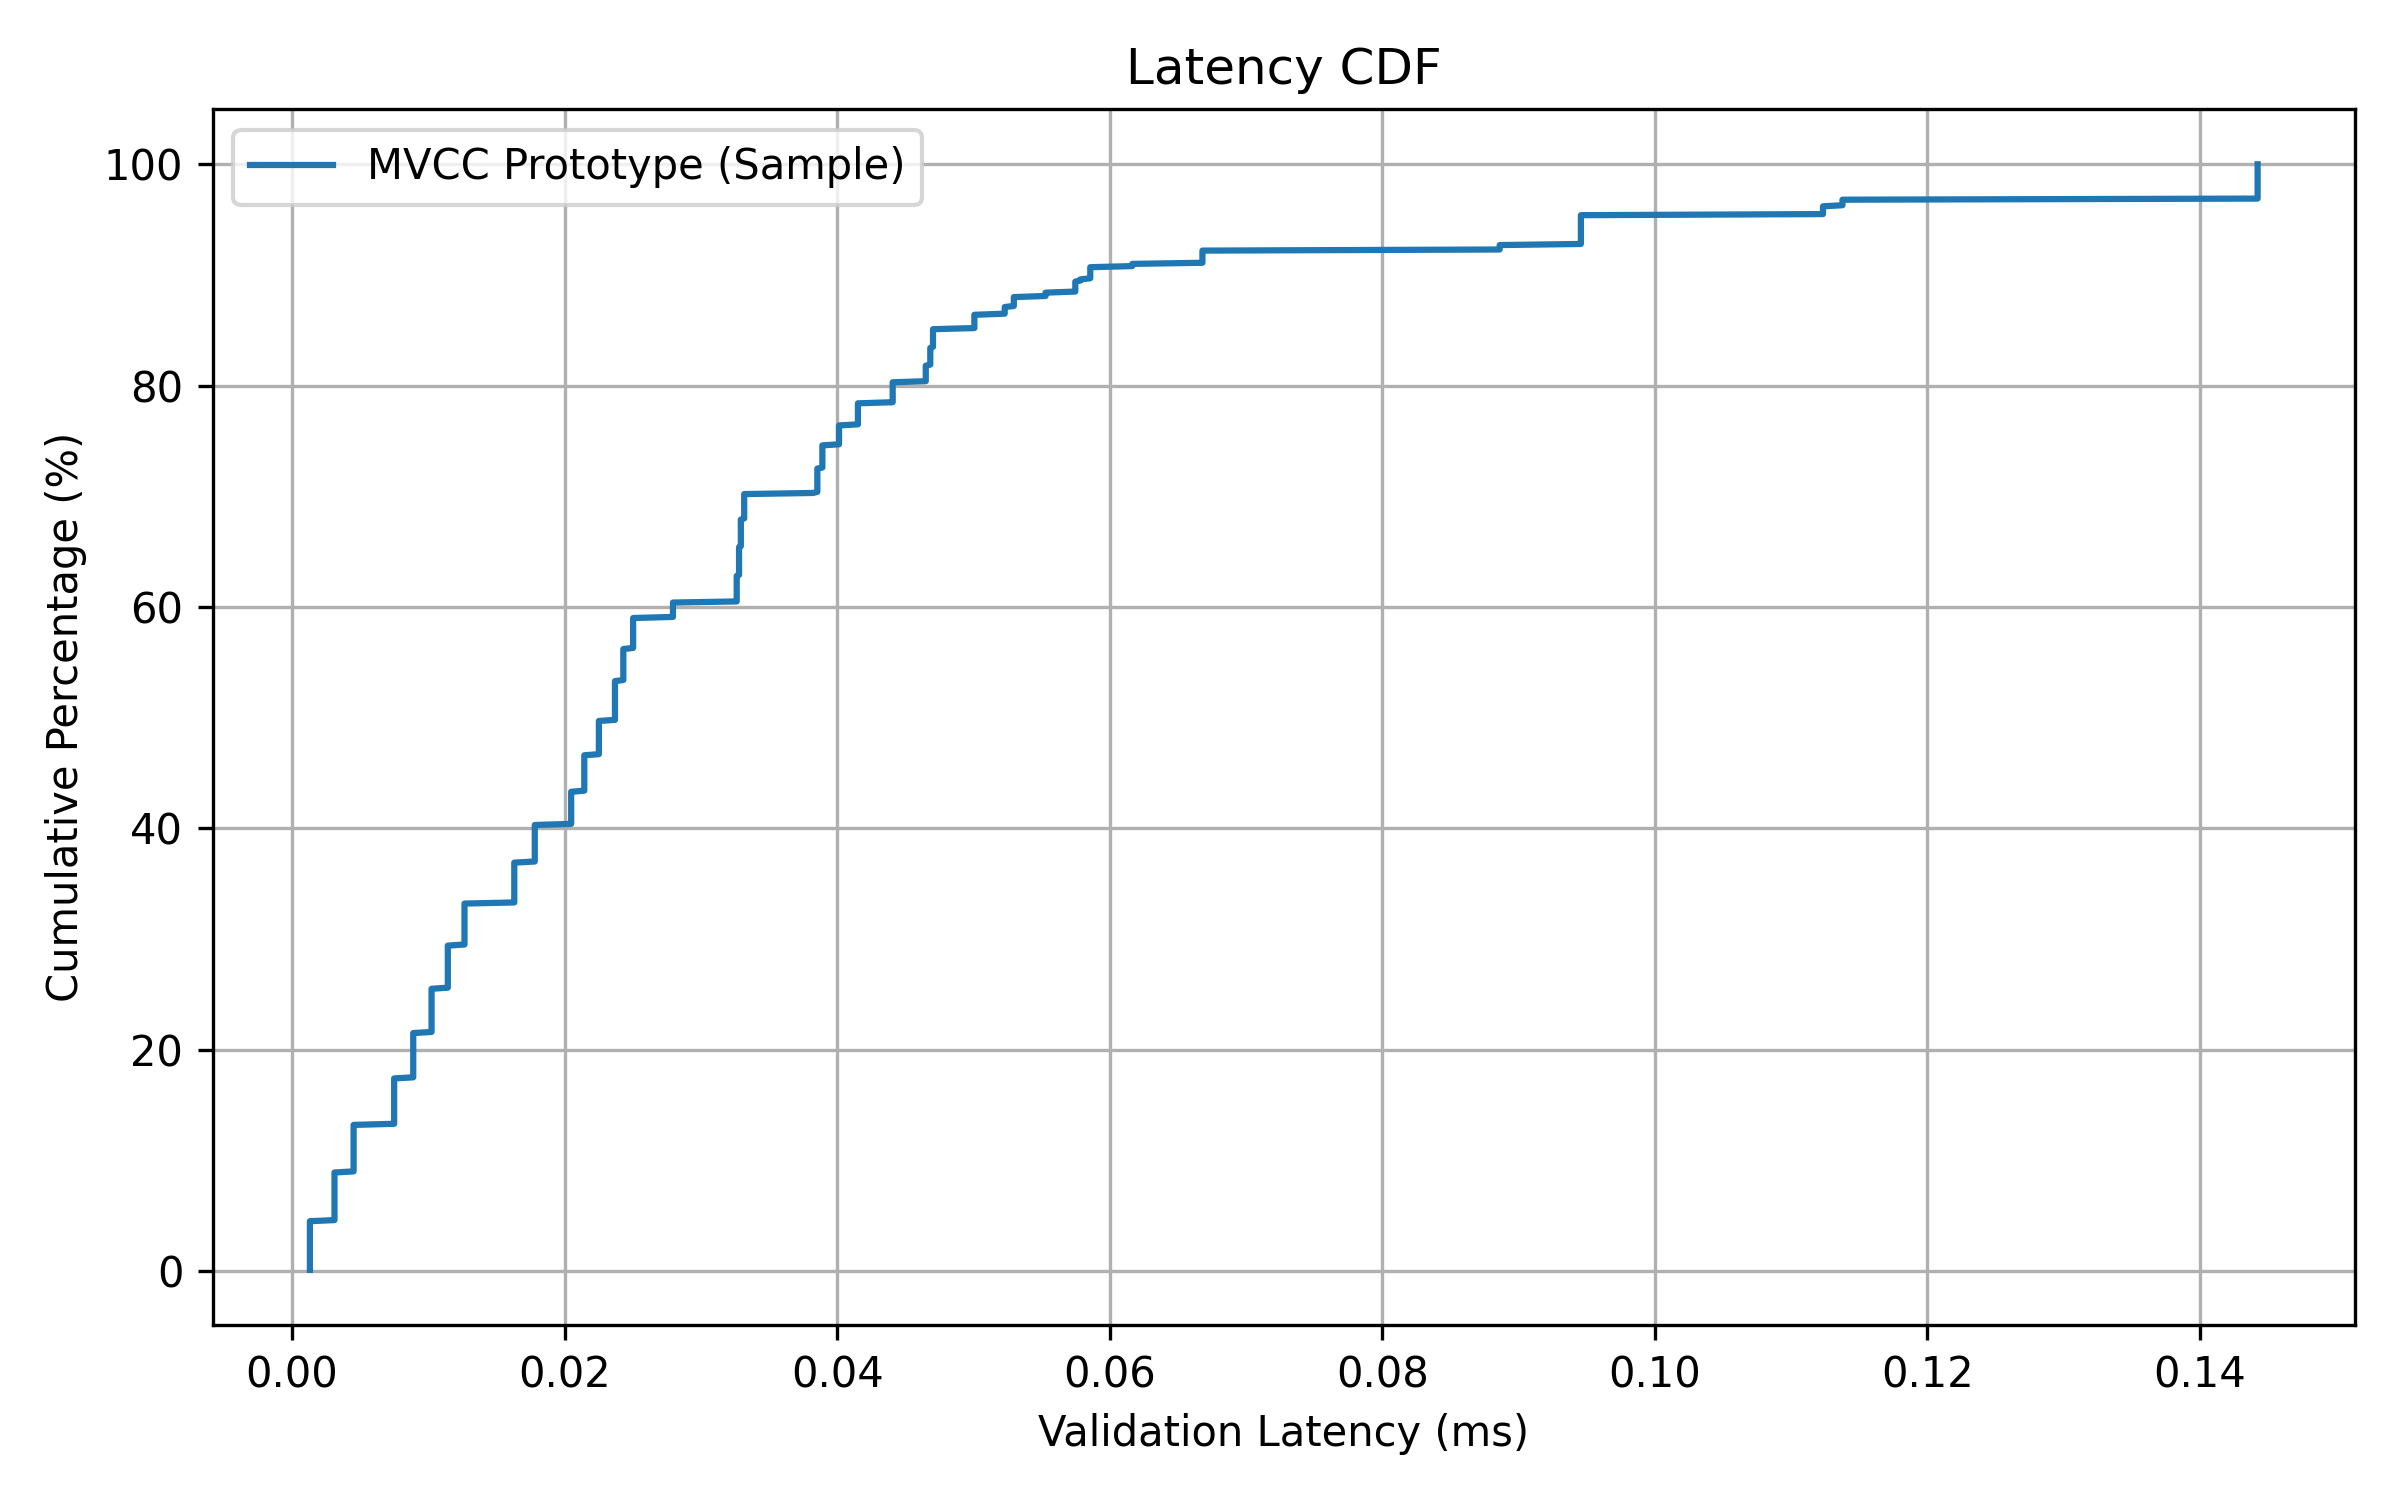
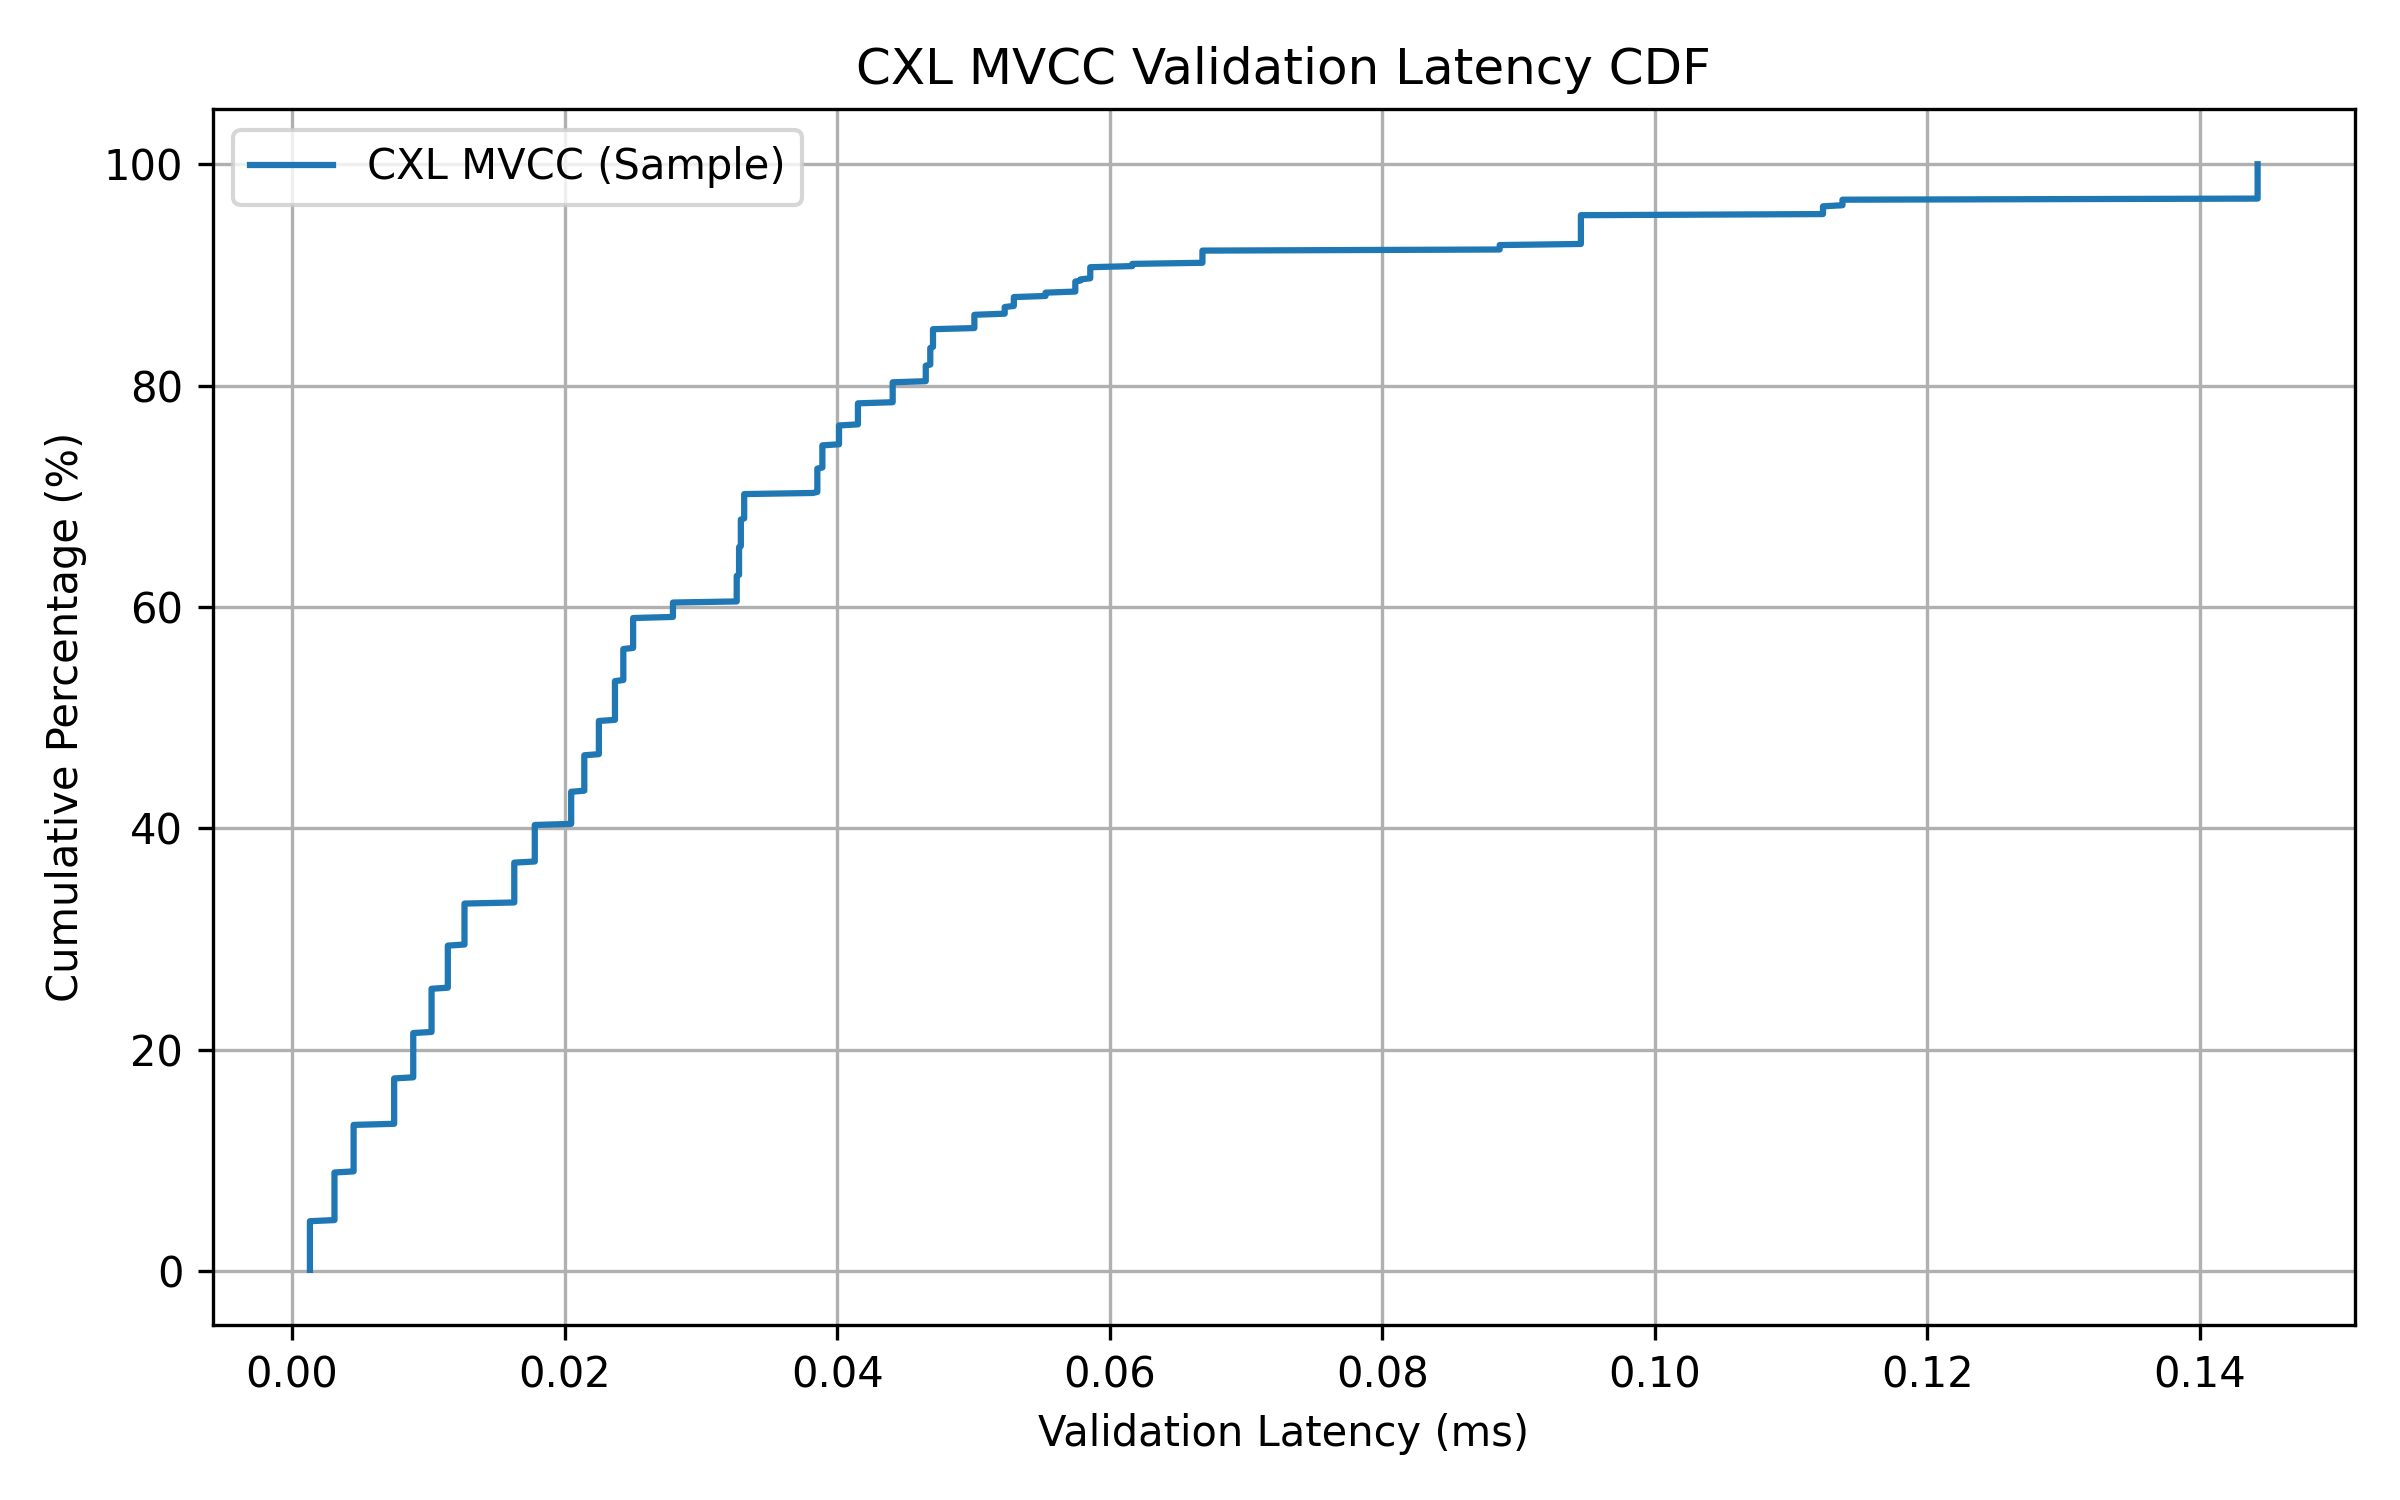
Finalize milestone 2 benchmark outputs

Changed region(s): [[0.3438, 0.0307, 0.7188, 0.0613], [0.1562, 0.092, 0.375, 0.1533]]

diff --git a/plots/plot_results.py b/plots/plot_results.py
@@ -14,6 +14,8 @@ cxl_transactions = []
 cxl_p50 = []
 cxl_p90 = []
 cxl_p99 = []
+cxl_throughput = []
+
 
 with open(csv_file, "r" , newline="") as file:
     reader = csv.DictReader(file)
@@ -36,17 +38,22 @@ with open(cxl_file, "r", newline="") as file:
 
     for row in reader:
         cxl_transactions.append(float(row['transaction']))
+        cxl_throughput.append(float(row['throughput']))
         cxl_p50.append(float(row['cxl_p50_latency']) * 1000)
         cxl_p90.append(float(row['cxl_p90_latency']) * 1000)
         cxl_p99.append(float(row['cxl_p99_latency']) * 1000)
 
-# Plot 1: Throughput
+# Plot 1: Baseline vs CXL Throughput
 plt.figure()
 
-plt.plot(transactions, throughput, marker='o')
+plt.plot(transactions, throughput, marker='o', label ='Baseline')
+plt.plot(cxl_transactions, cxl_throughput, marker='s', linestyle='--', label='CXL')
+
+plt.plot
 plt.xlabel("Number of Transactions")
 plt.ylabel("Throughput (transactions/second)")
-plt.title("Throughput vs Number of Transactions")
+plt.title("Baseline vs CXL Throughput")
+plt.legend()
 plt.grid(True)
 plt.tight_layout ()
 plt.savefig("plots/throughput_vs_transactions.png")

diff --git a/plots/plot_resource_utilization.py b/plots/plot_resource_utilization.py
@@ -1,0 +1,38 @@
+import csv
+import os
+import matplotlib.pyplot as plt
+
+# Read resource utilization data
+resource_file = "results/processed/resource_trace.csv"
+
+cpu_percent = []
+memory_percent = []
+
+with open(resource_file, "r", newline="") as file:
+    reader = csv.DictReader(file)
+
+    for row in reader:
+        cpu_percent.append(float(row["cpu_percent"]))
+        memory_percent.append(float(row["memory_percent"]))
+
+# Create plots directory
+os.makedirs("plots", exist_ok=True)
+
+# Plot Resource Utilization
+plt.figure(figsize=(8, 5))
+
+plt.plot(cpu_percent, marker='o', label="CPU Utilization")
+plt.plot(memory_percent, marker='o', label="Memory Utilization")
+
+plt.xlabel("Sample")
+plt.ylabel("Utilization (%)")
+plt.title("Resource Utilization Over Time")
+plt.legend()
+plt.grid(True)
+plt.tight_layout()
+
+plt.savefig("plots/resource_utilization.png", dpi=300)
+plt.close()
+
+print("Resource utilization plot saved.")
+print("Output: plots/resource_utilization.png")

diff --git a/plots/plot_latency_cdf.py b/plots/plot_latency_cdf.py
@@ -25,10 +25,10 @@ cdf = [(i + 1) / len(latencies) * 100
 os.makedirs("plots", exist_ok=True)
 
 plt.figure(figsize=(8, 5))
-plt.plot(latencies, cdf, label="MVCC Prototype (Sample)")
+plt.plot(latencies, cdf, label="CXL MVCC (Sample)")
 plt.xlabel("Validation Latency (ms)")
 plt.ylabel("Cumulative Percentage (%)")
-plt.title("Latency CDF")
+plt.title("CXL MVCC Validation Latency CDF")
 plt.grid(True)
 plt.legend()
 plt.tight_layout()
